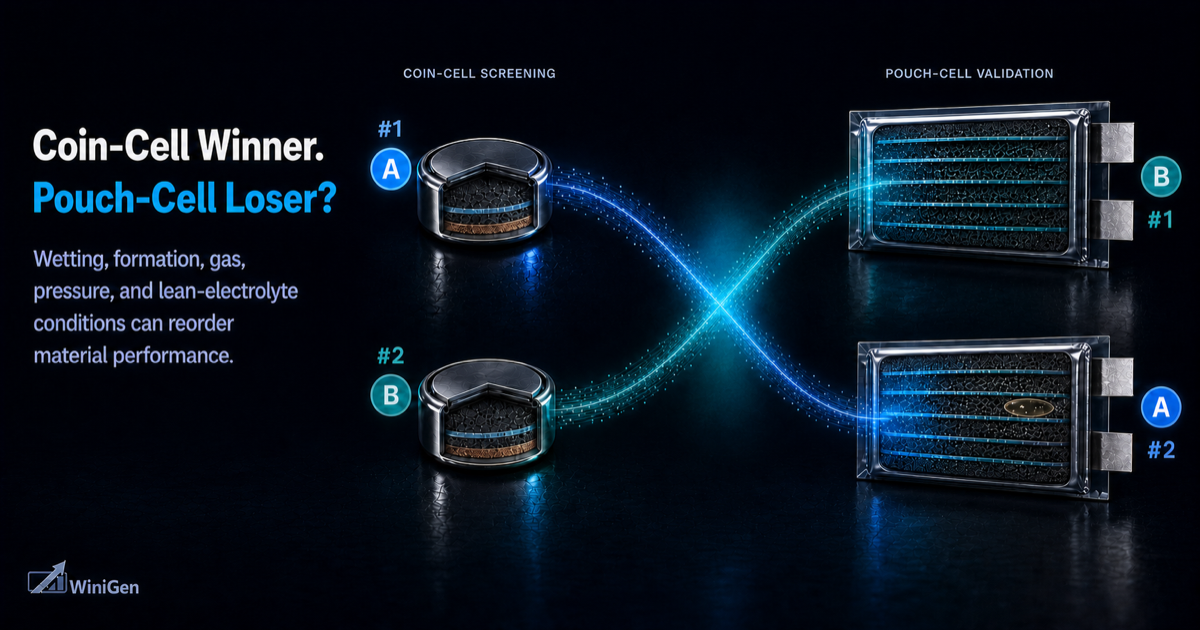
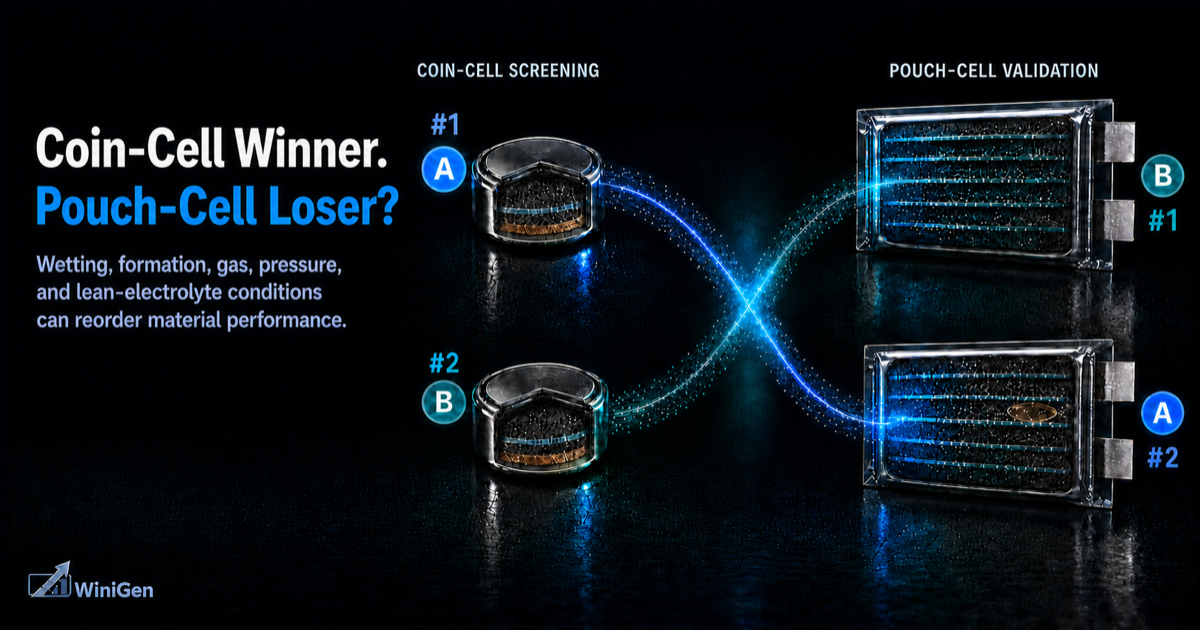
Refine coin-cell article hero previews

diff --git a/knowledge/coin-cell-to-pouch-cell-battery-material-validation.html b/knowledge/coin-cell-to-pouch-cell-battery-material-validation.html
@@ -23,8 +23,8 @@
 <meta property="og:title" content="From Coin Cell to Pouch Cell, Part 1: How to Validate Battery Materials Before Scale-Up">
 <meta property="og:description" content="A practical guide to validating battery salts, solvents, additives, silicon anodes, lithium metal, and solid-state materials through wetting, formation, pressure, gas, swelling, impedance, and QC before pouch-cell scale-up.">
 <meta property="og:url" content="https://www.winigenmaterials.com/knowledge/coin-cell-to-pouch-cell-battery-material-validation.html">
-<meta property="og:image" content="https://www.winigenmaterials.com/assets/images/knowledge/social/coin-cell-to-pouch-cell-battery-material-validation.png?v=20260803-1">
-<meta property="og:image:secure_url" content="https://www.winigenmaterials.com/assets/images/knowledge/social/coin-cell-to-pouch-cell-battery-material-validation.png?v=20260803-1">
+<meta property="og:image" content="https://www.winigenmaterials.com/assets/images/knowledge/social/coin-cell-to-pouch-cell-battery-material-validation.png?v=20260806-1">
+<meta property="og:image:secure_url" content="https://www.winigenmaterials.com/assets/images/knowledge/social/coin-cell-to-pouch-cell-battery-material-validation.png?v=20260806-1">
 <meta property="og:image:type" content="image/png">
 <meta property="og:image:width" content="1200">
 <meta property="og:image:height" content="630">
@@ -32,9 +32,9 @@
 <meta name="twitter:card" content="summary_large_image">
 <meta name="twitter:title" content="From Coin Cell to Pouch Cell, Part 1: How to Validate Battery Materials Before Scale-Up">
 <meta name="twitter:description" content="Pouch cells reveal whether materials survive wetting, formation, gas, pressure, and process variation.">
-<meta name="twitter:image" content="https://www.winigenmaterials.com/assets/images/knowledge/social/coin-cell-to-pouch-cell-battery-material-validation.png?v=20260803-1">
+<meta name="twitter:image" content="https://www.winigenmaterials.com/assets/images/knowledge/social/coin-cell-to-pouch-cell-battery-material-validation.png?v=20260806-1">
 <meta name="twitter:image:alt" content="Strong coin-cell data is not scale-up proof: a single-layer coin cell transitions into a multilayer pouch-cell validation environment">
-<link rel="image_src" href="https://www.winigenmaterials.com/assets/images/knowledge/social/coin-cell-to-pouch-cell-battery-material-validation.png?v=20260803-1">
+<link rel="image_src" href="https://www.winigenmaterials.com/assets/images/knowledge/social/coin-cell-to-pouch-cell-battery-material-validation.png?v=20260806-1">
 <link rel="preconnect" href="https://fonts.googleapis.com">
 <link rel="preconnect" href="https://fonts.gstatic.com" crossorigin>
 <link href="https://fonts.googleapis.com/css2?family=Inter:wght@400;500;600;700;800;900&family=Manrope:wght@500;600;700;800&display=swap" rel="stylesheet">
@@ -51,7 +51,7 @@
     "description":  "A practical framework for validating liquid electrolytes, additives, lithium salts, silicon anodes, lithium metal, and solid-state or hybrid systems through wetting, formation, pressure, swelling, gas, impedance, and quality control.",
     "url":  "https://www.winigenmaterials.com/knowledge/coin-cell-to-pouch-cell-battery-material-validation.html",
     "datePublished":  "2026-06-14",
-    "dateModified":  "2026-08-03",
+    "dateModified":  "2026-08-06",
     "author":  {
                    "@type":  "Organization",
                    "name":  "Winigen Materials",
@@ -67,8 +67,8 @@
                                }
                   },
     "image":  [
-                  "https://www.winigenmaterials.com/assets/images/knowledge/social/coin-cell-to-pouch-cell-battery-material-validation.png?v=20260803-1",
-                  "https://www.winigenmaterials.com/assets/images/knowledge/campaign/coin-to-pouch-validation-hero-v3-single-layer.png?v=20260803-1",
+                  "https://www.winigenmaterials.com/assets/images/knowledge/social/coin-cell-to-pouch-cell-battery-material-validation.png?v=20260806-1",
+                  "https://www.winigenmaterials.com/assets/images/knowledge/campaign/coin-to-pouch-validation-hero-v3-single-layer.png?v=20260806-1",
                   "https://www.winigenmaterials.com/assets/images/knowledge/coin-to-pouch-validation/coin-to-pouch-validation-ladder.png",
                   "https://www.winigenmaterials.com/assets/images/knowledge/coin-to-pouch-validation/coin-pouch-cell-architecture-voltage-cc-by.jpg",
                   "https://www.winigenmaterials.com/assets/images/knowledge/coin-to-pouch-validation/pouch-cell-process-control-map.png",
@@ -140,7 +140,7 @@
   <section class="section">
     <div class="container article-layout">
       <article class="article-main">
-        <div class="article-hero-visual protected-figure"><div class="figure-lock"><img src="../assets/images/knowledge/campaign/coin-to-pouch-validation-hero-v3-single-layer.png?v=20260803-1" alt="Strong coin-cell data is not scale-up proof: a single-layer coin cell transitions into a multilayer pouch-cell validation environment" loading="eager" fetchpriority="high" decoding="async" draggable="false"></div></div>
+        <div class="article-hero-visual protected-figure"><div class="figure-lock"><img src="../assets/images/knowledge/campaign/coin-to-pouch-validation-hero-v3-single-layer.png?v=20260806-1" alt="Strong coin-cell data is not scale-up proof: a single-layer coin cell transitions into a multilayer pouch-cell validation environment" loading="eager" fetchpriority="high" decoding="async" draggable="false"></div></div>
         <p>Battery materials are often selected from coin-cell capacity, retention, or rate data. Those tests are valuable because they use little material, support fast comparisons, and isolate early electrochemical behavior. They are not, however, a miniature proof of pouch-cell manufacturability.</p>
         <p>When a program moves into larger-area cells, the question changes. The team is no longer asking only whether a salt, solvent, additive, active material, or solid electrolyte can work. It is asking whether the complete materials system can be filled, wetted, formed, compressed, degassed, sealed, cycled, and reproduced under practical constraints.</p>
         <div class="article-callout"><strong>Core principle:</strong> scale-up validation should preserve enough experimental control to separate chemistry effects from cell-format and process effects. A disappointing pouch cell does not automatically mean the material is poor; a strong coin cell does not automatically mean the process is ready.</div>

diff --git a/knowledge/coin-cell-to-pouch-cell-part-2-electrolyte-wetting-gas-formation.html b/knowledge/coin-cell-to-pouch-cell-part-2-electrolyte-wetting-gas-formation.html
@@ -23,8 +23,8 @@
 <meta property="og:title" content="From Coin Cell to Pouch Cell, Part 2: Why Wetting, Gas, and Formation Change Battery Material Rankings">
 <meta property="og:description" content="Why battery materials that perform well in coin cells may rank differently in pouch cells due to electrolyte wetting, E/C ratio, formation, gas generation, swelling, pressure, and impedance.">
 <meta property="og:url" content="https://www.winigenmaterials.com/knowledge/coin-cell-to-pouch-cell-part-2-electrolyte-wetting-gas-formation.html">
-<meta property="og:image" content="https://www.winigenmaterials.com/assets/images/knowledge/social/coin-cell-to-pouch-cell-part-2-electrolyte-wetting-gas-formation.png?v=20260803-1">
-<meta property="og:image:secure_url" content="https://www.winigenmaterials.com/assets/images/knowledge/social/coin-cell-to-pouch-cell-part-2-electrolyte-wetting-gas-formation.png?v=20260803-1">
+<meta property="og:image" content="https://www.winigenmaterials.com/assets/images/knowledge/social/coin-cell-to-pouch-cell-part-2-electrolyte-wetting-gas-formation.png?v=20260806-5">
+<meta property="og:image:secure_url" content="https://www.winigenmaterials.com/assets/images/knowledge/social/coin-cell-to-pouch-cell-part-2-electrolyte-wetting-gas-formation.png?v=20260806-5">
 <meta property="og:image:type" content="image/png">
 <meta property="og:image:width" content="1200">
 <meta property="og:image:height" content="630">
@@ -32,9 +32,9 @@
 <meta name="twitter:card" content="summary_large_image">
 <meta name="twitter:title" content="From Coin Cell to Pouch Cell, Part 2: Why Wetting, Gas, and Formation Change Battery Material Rankings">
 <meta name="twitter:description" content="Wetting, formation, gas, pressure, and lean-electrolyte conditions can reorder material performance.">
-<meta name="twitter:image" content="https://www.winigenmaterials.com/assets/images/knowledge/social/coin-cell-to-pouch-cell-part-2-electrolyte-wetting-gas-formation.png?v=20260803-1">
+<meta name="twitter:image" content="https://www.winigenmaterials.com/assets/images/knowledge/social/coin-cell-to-pouch-cell-part-2-electrolyte-wetting-gas-formation.png?v=20260806-5">
 <meta name="twitter:image:alt" content="Coin-cell winner, pouch-cell loser: material rankings change under wetting, formation, gas, pressure, and lean-electrolyte conditions">
-<link rel="image_src" href="https://www.winigenmaterials.com/assets/images/knowledge/social/coin-cell-to-pouch-cell-part-2-electrolyte-wetting-gas-formation.png?v=20260803-1">
+<link rel="image_src" href="https://www.winigenmaterials.com/assets/images/knowledge/social/coin-cell-to-pouch-cell-part-2-electrolyte-wetting-gas-formation.png?v=20260806-5">
 <link rel="preconnect" href="https://fonts.googleapis.com">
 <link rel="preconnect" href="https://fonts.gstatic.com" crossorigin>
 <link href="https://fonts.googleapis.com/css2?family=Inter:wght@400;500;600;700;800;900&family=Manrope:wght@500;600;700;800&display=swap" rel="stylesheet">
@@ -50,7 +50,7 @@
     "description":  "Why battery materials that perform well in coin cells may rank differently in pouch cells due to electrolyte wetting, E/C ratio, formation, gas generation, swelling, pressure, and impedance.",
     "url":  "https://www.winigenmaterials.com/knowledge/coin-cell-to-pouch-cell-part-2-electrolyte-wetting-gas-formation.html",
     "datePublished":  "2026-06-17",
-    "dateModified":  "2026-08-03",
+    "dateModified":  "2026-08-06",
     "author":  {
                    "@type":  "Organization",
                    "name":  "Winigen Materials",
@@ -66,8 +66,8 @@
                                }
                   },
     "image":  [
-                  "https://www.winigenmaterials.com/assets/images/knowledge/social/coin-cell-to-pouch-cell-part-2-electrolyte-wetting-gas-formation.png?v=20260803-1",
-                  "https://www.winigenmaterials.com/assets/images/knowledge/campaign/coin-to-pouch-part-2-ranking-crossover-hero-v3-refined.png?v=20260803-1",
+                  "https://www.winigenmaterials.com/assets/images/knowledge/social/coin-cell-to-pouch-cell-part-2-electrolyte-wetting-gas-formation.png?v=20260806-5",
+                  "https://www.winigenmaterials.com/assets/images/knowledge/campaign/coin-to-pouch-part-2-ranking-crossover-hero-v5-matched-typography.png?v=20260806-5",
                   "https://www.winigenmaterials.com/assets/images/knowledge/coin-to-pouch-part-2/electrolyte-wetting-translation-map.png",
                   "https://www.winigenmaterials.com/assets/images/knowledge/coin-to-pouch-part-2/electrolyte-wetting-process-chain-kaden-cc-by.jpg",
                   "https://www.winigenmaterials.com/assets/images/knowledge/coin-to-pouch-part-2/lean-electrolyte-and-trapped-gas.png",
@@ -143,7 +143,7 @@
       <article class="article-main">
         <div class="article-hero-visual protected-figure">
           <div class="figure-lock">
-            <img src="../assets/images/knowledge/campaign/coin-to-pouch-part-2-ranking-crossover-hero-v3-refined.png?v=20260803-1" alt="Coin-cell winner, pouch-cell loser: material rankings change under wetting, formation, gas, pressure, and lean-electrolyte conditions" loading="eager" fetchpriority="high" decoding="async" draggable="false">
+            <img src="../assets/images/knowledge/campaign/coin-to-pouch-part-2-ranking-crossover-hero-v5-matched-typography.png?v=20260806-5" alt="Coin-cell winner, pouch-cell loser: material rankings change under wetting, formation, gas, pressure, and lean-electrolyte conditions" loading="eager" fetchpriority="high" decoding="async" draggable="false">
           </div>
         </div>
         <p>This article is a follow-up to <a href="coin-cell-to-pouch-cell-battery-material-validation.html">Part 1: How to Validate Battery Materials Before Scale-Up</a>. The first article built the broader validation ladder. This second article goes deeper into the most common translation trap: a chemistry can rank well in a coin cell but rank differently in a pouch cell because the format changes wetting, electrolyte amount, formation, gas handling, pressure, and impedance.</p>

diff --git a/knowledge.html b/knowledge.html
@@ -240,7 +240,7 @@
 </section>
 <section class="section"><div class="container"><div class="article-index-header"><p class="eyebrow">Complete Library</p><h2>All Technical Articles</h2><p>Browse the full collection of Winigen Materials guides across chemistry, materials, interfaces, testing, and scale-up.</p></div><div class="knowledge-grid">
     <article class="knowledge-card">
-      <img src="assets/images/knowledge/social/coin-cell-to-pouch-cell-battery-material-validation.png?v=20260803-1" alt="Strong coin-cell data is not scale-up proof: coin-to-pouch validation" loading="lazy" decoding="async">
+      <img src="assets/images/knowledge/social/coin-cell-to-pouch-cell-battery-material-validation.png?v=20260806-1" alt="Strong coin-cell data is not scale-up proof: coin-to-pouch validation" loading="lazy" decoding="async">
       <div class="knowledge-card-body">
       <h2><a href="knowledge/coin-cell-to-pouch-cell-battery-material-validation.html">From Coin Cell to Pouch Cell, Part 1: How to Validate Battery Materials Before Scale-Up</a></h2>
       <p>Connect material QC, electrolyte wetting, formation, gas, swelling, pressure, impedance, and post-mortem evidence across coin, single-layer pouch, and multilayer pouch cells.</p>
@@ -248,7 +248,7 @@
       </div>
     </article>
     <article class="knowledge-card">
-      <img src="assets/images/knowledge/coin-to-pouch-part-2/electrolyte-wetting-translation-map.png" alt="Electrolyte wetting and formation variables that affect coin-to-pouch translation" loading="lazy">
+      <img src="assets/images/knowledge/social/coin-cell-to-pouch-cell-part-2-electrolyte-wetting-gas-formation.png?v=20260806-5" alt="Coin-cell winner, pouch-cell loser: wetting, formation, gas, pressure, and lean-electrolyte conditions can reorder material performance" loading="lazy" decoding="async">
       <div class="knowledge-card-body">
       <h2><a href="knowledge/coin-cell-to-pouch-cell-part-2-electrolyte-wetting-gas-formation.html">From Coin Cell to Pouch Cell, Part 2: Why Wetting, Gas, and Formation Change Battery Material Rankings</a></h2>
       <p>Go deeper on E/C ratio, vacuum filling, wetting rest time, formation protocol, additive consumption, gas generation, pouch swelling, pressure, and ranking reversal.</p>
